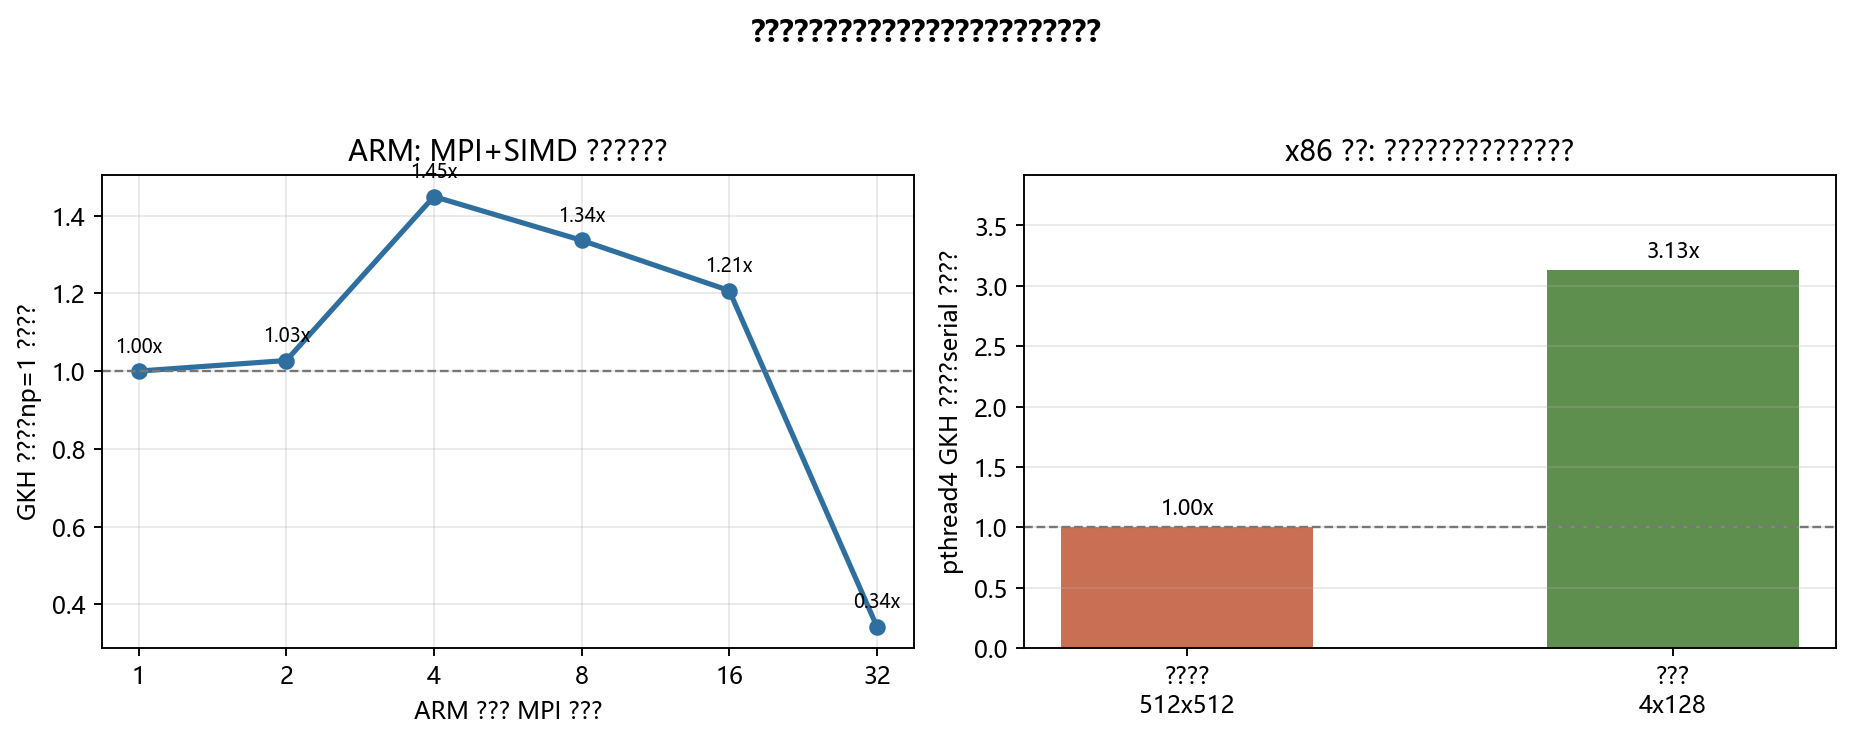
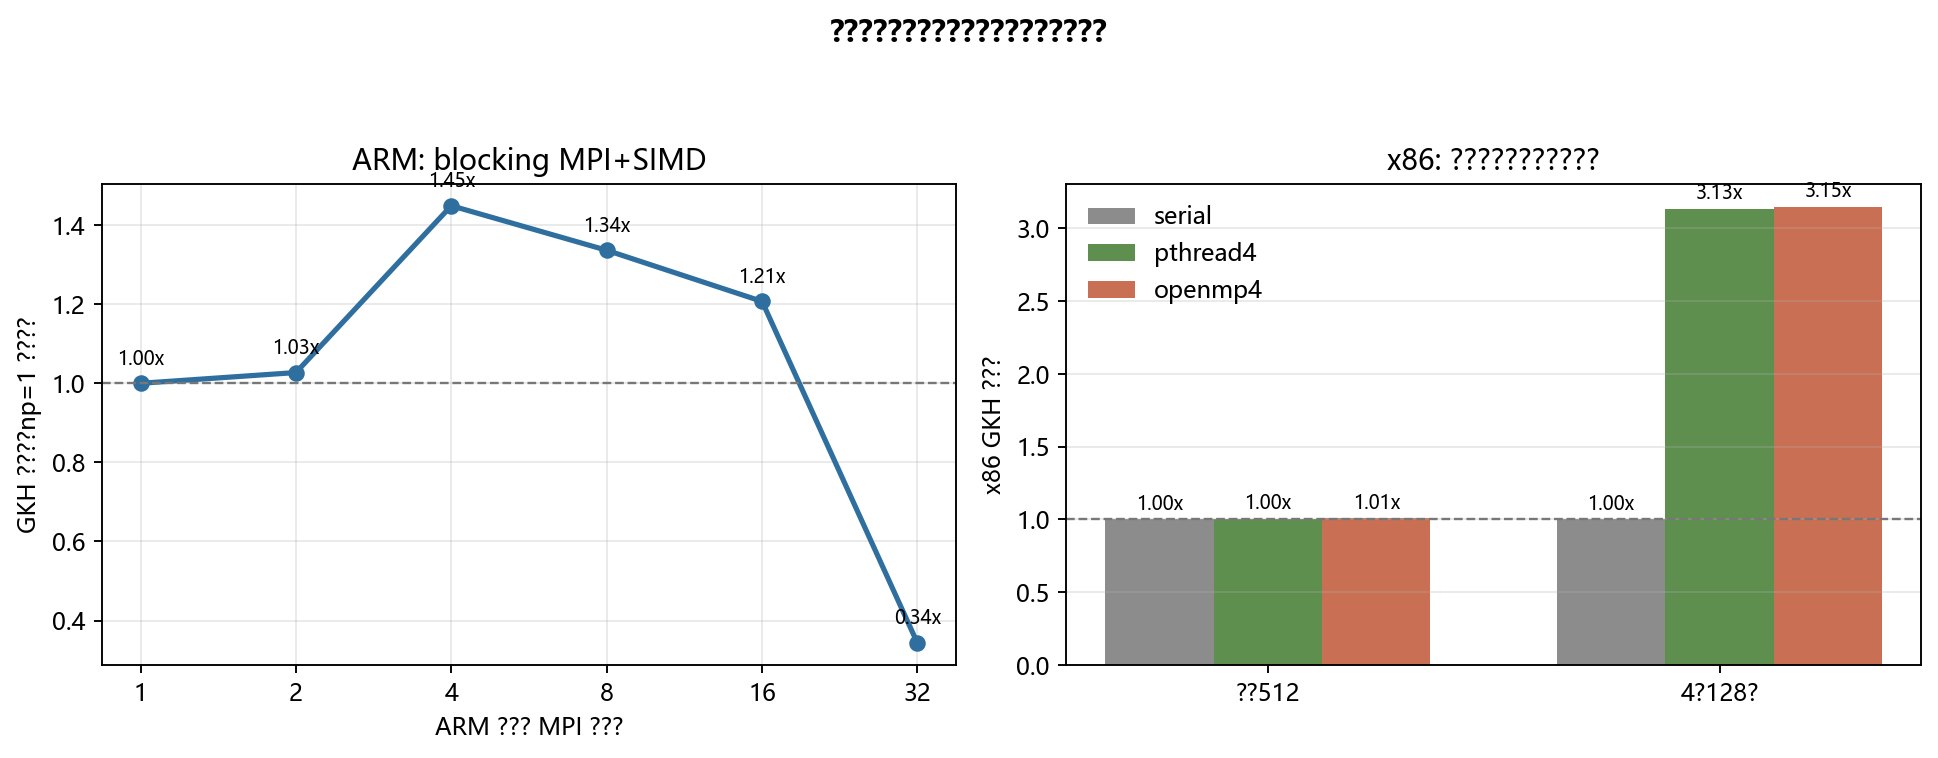
Add data-backed advanced requirement analysis

diff --git a/report.tex b/report.tex
@@ -476,21 +476,23 @@ SIMD 设置 & 上二对角/ms & GKH/ms & 总时间/ms & 总时间标准差/ms\\
 
 \begin{table}[H]
 \centering
-\small
-\begin{tabular}{llllr}
+\scriptsize
+\begin{tabular}{llp{0.25\textwidth}rrr}
 \toprule
-平台 & 并行形态 & 代表样例 & GKH 耗时/ms & 相对结论\\
+平台 & 并行形态 & 代表样例 & GKH/ms & 加速比 & 可并行轮次\\
 \midrule
-x86 本地 & serial+SIMD & 随机 $512\times512$ & 4421.59 & 基准\\
-x86 本地 & pthread4+SIMD & 随机 $512\times512$ & 4402.29 & 约 1.00 倍\\
-x86 本地 & serial+SIMD & 4 个 $128$ 块 & 1130.35 & 基准\\
-x86 本地 & pthread4+SIMD & 4 个 $128$ 块 & 360.63 & 约 3.13 倍\\
-ARM 服务器 & MPI+SIMD, $np=1$ & 随机 $1000\times1000$ & 23147.60 & 基准\\
-ARM 服务器 & MPI+SIMD, $np=4$ & 随机 $1000\times1000$ & 15975.63 & 约 1.45 倍\\
-ARM 服务器 & MPI+SIMD, $np=32$ & 随机 $1000\times1000$ & 67490.93 & 约 0.34 倍\\
+x86 本地 & serial+SIMD & 随机 $512\times512$ & 4421.59 & 1.00 & --\\
+x86 本地 & pthread4+SIMD & 随机 $512\times512$ & 4402.29 & 1.00 & $8/749$\\
+x86 本地 & OpenMP4+SIMD & 随机 $512\times512$ & 4385.86 & 1.01 & $8/749$\\
+x86 本地 & serial+SIMD & 4 个 $128$ 块 & 1130.35 & 1.00 & --\\
+x86 本地 & pthread4+SIMD & 4 个 $128$ 块 & 360.63 & 3.13 & $252/253$\\
+x86 本地 & OpenMP4+SIMD & 4 个 $128$ 块 & 359.08 & 3.15 & $252/253$\\
+ARM 服务器 & MPI+SIMD, $np=1$ & 随机 $1000\times1000$ & 23147.60 & 1.00 & 未输出\\
+ARM 服务器 & MPI+SIMD, $np=4$ & 随机 $1000\times1000$ & 15975.63 & 1.45 & 未输出\\
+ARM 服务器 & MPI+SIMD, $np=32$ & 随机 $1000\times1000$ & 67490.93 & 0.34 & 未输出\\
 \bottomrule
 \end{tabular}
-\caption{不同平台和并行形态的趋势对比}
+\caption{不同平台和并行形态的实测数据对比}
 \label{tab:advanced-platform}
 \end{table}
 
@@ -501,7 +503,14 @@ ARM 服务器 & MPI+SIMD, $np=32$ & 随机 $1000\times1000$ & 67490.93 & 约 0.3
 \label{fig:advanced-platform}
 \end{figure}
 
-表\ref{tab:advanced-platform} 和图\ref{fig:advanced-platform} 的关键结论是：平台差异不是唯一决定因素，活动块并行度更直接决定了并行收益。本地 x86 上，随机矩阵的 pthread4 几乎不能加速 GKH；但在人工构造的 4 个独立活动块样例中，pthread4 可以达到约 3.13 倍加速。ARM 服务器上也呈现类似趋势：当 $np=4$ 仍能承接一定活动块时，MPI+SIMD 有有限收益；当 $np=32$ 远大于可同时处理的活动块数量时，通信和等待开销超过计算收益，性能显著退化。
+\begin{figure}[H]
+\centering
+\includegraphics[width=0.86\textwidth]{figures/parallel_opportunity_evidence.png}
+\caption{活动块并行机会与工作量不均衡}
+\label{fig:parallel-opportunity}
+\end{figure}
+
+表\ref{tab:advanced-platform}、图\ref{fig:advanced-platform} 和图\ref{fig:parallel-opportunity} 的关键结论是：平台差异不是唯一决定因素，活动块并行度更直接决定了并行收益。本地 x86 上，随机 $512\times512$ 的可并行轮次只有 $8/749$，pthread4 和 OpenMP4 的 GKH 加速比分别只有 1.00 和 1.01；同时 active worker 的最大/最小工作量比例约为 $2.23\times10^6:1$，说明几乎所有实质工作仍集中在一个 worker 上。相反，4 个 $128$ 块样例中可并行轮次为 $252/253$，最大/最小工作量比例仅约 $1.08:1$，pthread4 和 OpenMP4 分别达到 3.13 和 3.15 倍加速。ARM 服务器上也呈现类似趋势：当 $np=4$ 仍能承接一定活动块时，MPI+SIMD 有有限收益；当 $np=32$ 远大于可同时处理的活动块数量时，通信和等待开销超过计算收益，性能显著退化。
 
 这组进阶对比说明，多线程、SIMD 和 MPI 的关系不是简单叠加。SIMD 改善单个 rank 或线程内部的向量运算，多线程和 MPI 需要足够多的独立任务才能发挥作用。若算法长期只有一个大活动块，换成更多线程、更多进程或更强平台都难以自动获得线性加速。
 
@@ -525,7 +534,26 @@ MPI 自身多线程支持 & 可用 \texttt{MPI\_Init\_thread} 组成 MPI+pthread
 \label{tab:mpi-methods}
 \end{table}
 
-从当前 41 组服务器数据看，最值得继续尝试的不是盲目引入更复杂的通信模型，而是混合并行：节点间使用较少 MPI rank，节点内复用已有 pthread/OpenMP 活动块任务池。这样可以减少同一节点内多个进程重复持有完整 $U,B,V$ 的内存副本，也可以避免过多 rank 同时参与广播。非阻塞通信和单边通信更适合作为后续优化分支，在验证数据一致性和收益后再合并到最终代码。
+\begin{table}[H]
+\centering
+\small
+\begin{tabular}{rrrr}
+\toprule
+$np$ & 每轮完整 $U+B+V$ 广播量/MB & GKH 平均耗时/ms & GKH 加速比\\
+\midrule
+1 & 0 & 23147.60 & 1.00\\
+2 & 24 & 22535.20 & 1.03\\
+4 & 72 & 15975.63 & 1.45\\
+8 & 168 & 17322.33 & 1.34\\
+16 & 360 & 19177.90 & 1.21\\
+32 & 744 & 67490.93 & 0.34\\
+\bottomrule
+\end{tabular}
+\caption{阻塞 MPI 方案的通信量估算与实测性能}
+\label{tab:mpi-comm-evidence}
+\end{table}
+
+从当前 41 组服务器数据和表\ref{tab:mpi-comm-evidence} 看，最值得继续尝试的不是盲目引入更复杂的通信模型，而是混合并行：节点间使用较少 MPI rank，节点内复用已有 pthread/OpenMP 活动块任务池。对 $1000\times1000$ 主样例，$U,B,V$ 三个矩阵合计约 24 MB；当前阻塞方案每次进入分发轮次都要向 $world\_size-1$ 个 worker 广播完整矩阵，因此 $np=32$ 时单轮广播量估计达到 744 MB。非阻塞通信可以隐藏一部分发送/接收等待，但不能减少这部分数据量；单边通信也仍需处理同样的矩阵一致性问题。结合图\ref{fig:parallel-opportunity} 中随机矩阵只有 1.07\% 的可并行轮次，非阻塞和单边通信在普通随机矩阵上能重叠的计算窗口很小，更适合作为有块结构输入或混合并行方案上的后续优化分支。
 
 \subsection{其他算法优化策略}
 除通信方式外，本实验还可以从算法层面继续优化。第一，设置任务粒度阈值：当活动块数量少或块太小时，直接在根进程串行推进，避免广播完整矩阵。当前实现已经包含“只有一个非平凡块时串行推进”的思想，后续可把阈值从数量扩展到估算工作量。第二，减少同步数据量：不要每轮广播完整 $U,B,V$，而是只同步与活动块相关的 $B$ 子块和 $U,V$ 列区间；这一策略能够直接降低表\ref{tab:mpi-methods} 中阻塞通信的主要开销。第三，延迟更新正交矩阵：先记录 Givens 旋转序列，待若干轮后批量更新 $U,V$，可能提升缓存局部性和 SIMD 覆盖率，但需要额外验证重构误差和数值稳定性。第四，构造并识别块结构输入：本地 x86 的 4 块样例说明，只要活动块数量充足，已有任务池就能取得明显收益；因此对具有块结构或近似块对角结构的矩阵，MPI 任务池更可能发挥作用。
@@ -550,7 +578,8 @@ SIMD 优化仍然是必要的基础优化。它对上二对角化阶段有稳定
 
 从 41 组真实服务器数据看，程序正确性稳定，全部测试通过，误差保持在 $10^{-13}$ 量级。性能方面，GKH 阶段在 $np=4$ 时取得最好平均结果，加速比为 1.45；$np=8$ 后收益下降，$np=32$ 出现明显负优化。编译优化对性能影响显著，\texttt{-O2} 相比 \texttt{-O0} 端到端加速 4.82 倍；SIMD 对上二对角化有 1.26 倍收益，但对 MPI-GKH 基本无提升。综合来看，SVD 的 MPI 加速受活动块并行度强烈限制，任务池实现是必要的，但通信和算法粒度决定了其上限。
 
-进阶探索部分进一步对比了 ARM 服务器 MPI+SIMD 与本地 x86 pthread+SIMD 的趋势。结果表明，随机矩阵在多线程和多进程下都只能获得有限收益，而人工块结构样例可以让 pthread4 达到约 3.13 倍 GKH 加速。这说明后续优化的重点应放在减少通信复制、提高活动块并行度以及发展 MPI+线程的混合并行，而不是单纯增加进程数。
+进阶探索部分进一步对比了 ARM 服务器 MPI+SIMD 与本地 x86 pthread/OpenMP+SIMD 的趋势。结果表明，随机矩阵的可并行轮次只有 $8/749$，pthread4 和 OpenMP4 都只能获得约 1.0 倍 GKH 加速；人工块结构样例的可并行轮次达到 $252/253$，pthread4 与 OpenMP4 分别达到 3.13 和 3.15 倍 GKH 加速。MPI 通信量估算也显示，$np=32$ 时完整 $U+B+V$ 广播量每轮可达约 744 MB。这说明后续优化的重点应放在减少通信复制、提高活动块并行度以及发展 MPI+线程的混合并行，而不是单纯增加进程数。
+
 
 \newpage
 \section*{附录 A：数据与图表文件}
@@ -559,9 +588,10 @@ SIMD 优化仍然是必要的基础优化。它对上二对角化阶段有稳定
 \begin{itemize}
   \item 原始服务器输出：\texttt{data/results/raw/**/test.o} 与 \texttt{test.e}。
   \item 汇总数据：\texttt{data/results/summary.csv}。
-  \item 图表目录：\texttt{666/figures/}，包含规模扩展、加速比、时间构成、热力图、编译优化、SIMD 对比、重复运行波动图、VTune 热点图、进阶并行对比图和 AI 对话截图。
+  \item 本地 x86 对比数据：\texttt{666/results\_local/summary.csv}、\texttt{summary\_avg.csv} 和 \texttt{openmp4\_O2\_512.txt}。
+  \item 图表目录：\texttt{666/figures/}，包含规模扩展、加速比、时间构成、热力图、编译优化、SIMD 对比、重复运行波动图、VTune 热点图、进阶并行对比图、并行机会图和 AI 对话截图。
   \item 本地 profiling 输出：\texttt{666/profiling/vtune\_summary.txt} 与 \texttt{666/profiling/vtune\_hotspots.txt}。
-  \item 独立操作指南：\texttt{666/操作指南\_MPI\_SVD.md}。
+  \item 进阶要求数据摘要：\texttt{666/profiling/advanced\_parallel\_evidence.txt}。
 \end{itemize}
 
 \newpage